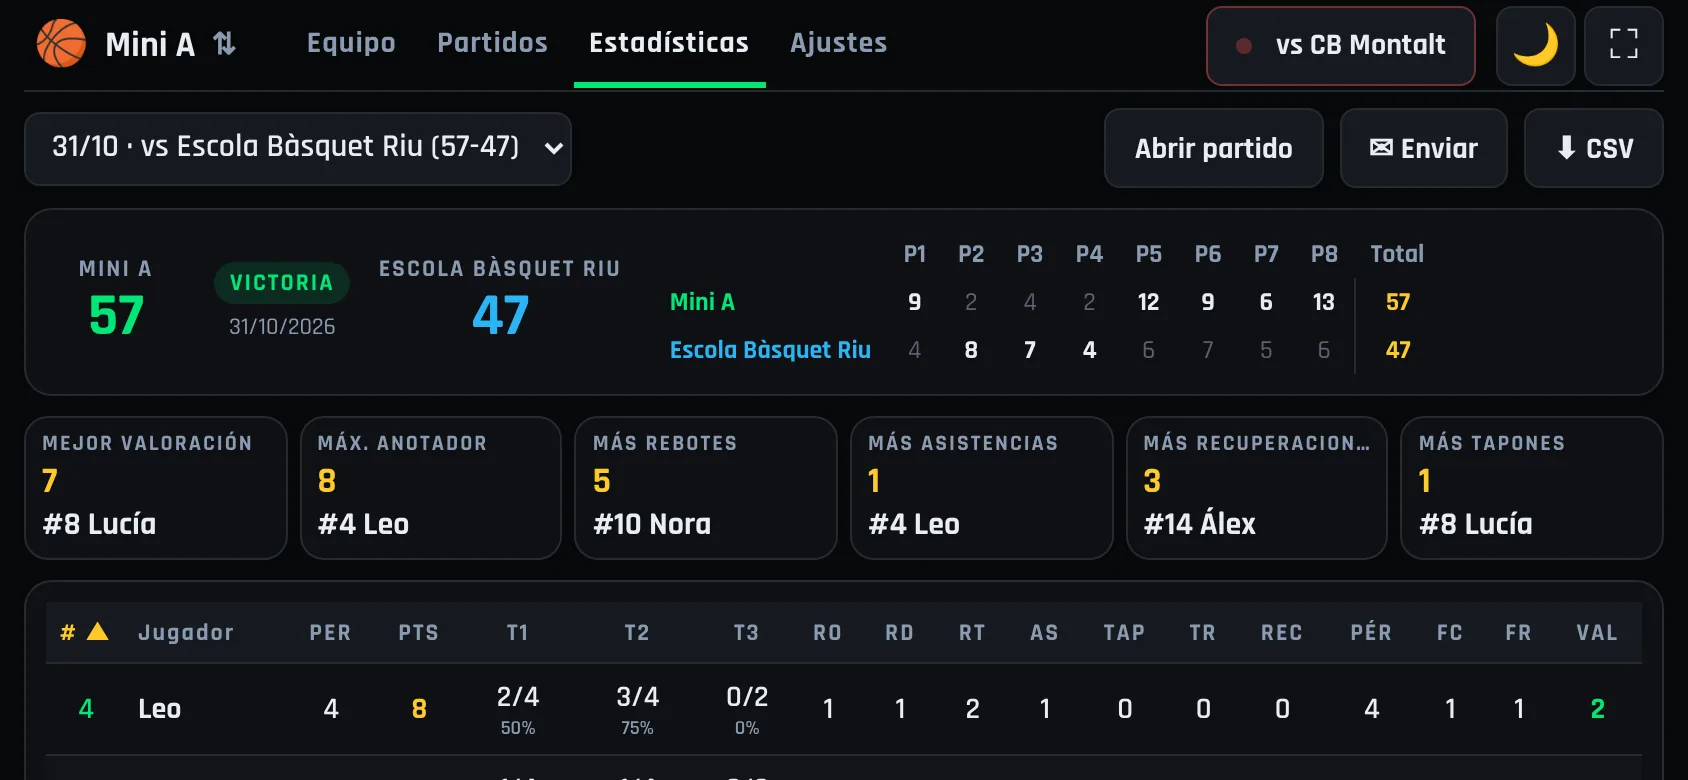
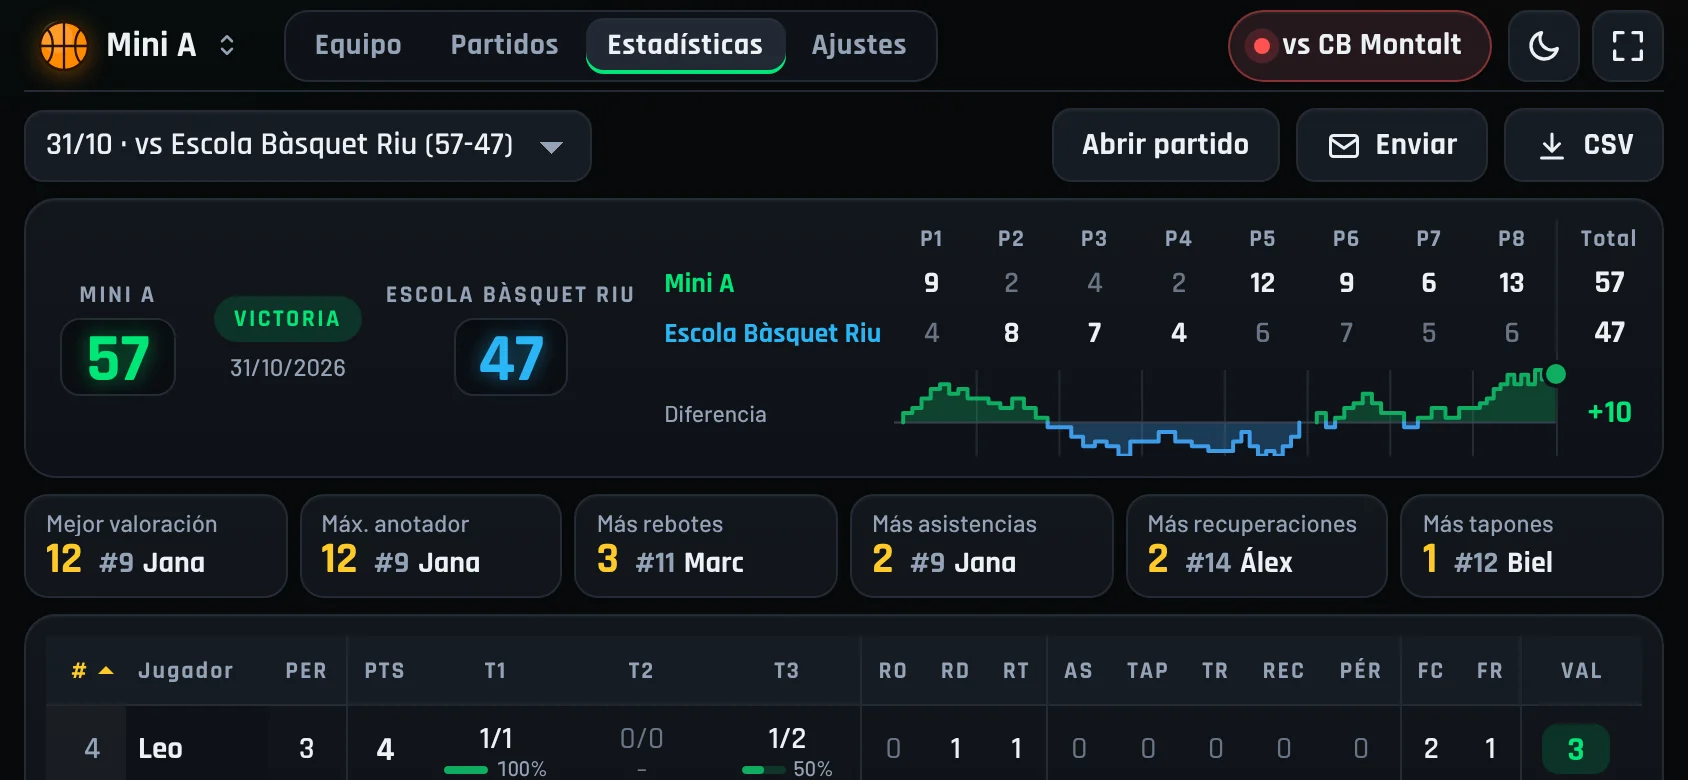
Web: capturas de la app e imagen para compartir con el nuevo diseño
Las tres capturas de la portada y la imagen Open Graph muestran las mismas
escenas que antes (partido 38-33 en el P6, victoria 57-47 y Ajustes), ahora
con el rediseño de la app. La de Ajustes pasa a 1688×780, como las otras
dos y como declara el componente Phone. El texto alternativo de la captura
de estadísticas menciona la evolución del marcador.

Claude-Session: https://claude.ai/code/session_0156vubY3rH6XoeyfrvTPeJq

diff --git a/src/i18n/home.ts b/src/i18n/home.ts
@@ -48,7 +48,7 @@ export const home = {
     ],
     statsVal: 'Valoración con la fórmula de la ACB.',
     statsValLink: 'Así se calcula',
-    statsAlt: 'Estadísticas de un partido en Cantera Stats: victoria 57 a 47, parciales por periodo y líderes del partido',
+    statsAlt: 'Estadísticas de un partido en Cantera Stats: victoria 57 a 47, parciales por periodo, evolución del marcador y líderes del partido',
     privacyTitle: 'Sin registro ni seguimiento',
     privacy: [
       'La app no tiene cuentas, cookies, publicidad ni analítica. Todo lo que apuntas se guarda solo en tu móvil y únicamente sale de él si tú lo compartes o lo exportas.',
@@ -124,7 +124,7 @@ export const home = {
     ],
     statsVal: "Valoració amb la fórmula de l'ACB.",
     statsValLink: 'Així es calcula (en castellà)',
-    statsAlt: "Estadístiques d'un partit a Cantera Stats: victòria 57 a 47, parcials per període i líders del partit",
+    statsAlt: "Estadístiques d'un partit a Cantera Stats: victòria 57 a 47, parcials per període, evolució del marcador i líders del partit",
     privacyTitle: 'Sense registre ni seguiment',
     privacy: [
       "L'app no té comptes, galetes, publicitat ni analítica. Tot el que apuntes es desa només al teu mòbil i només en surt si tu ho comparteixes o ho exportes.",
